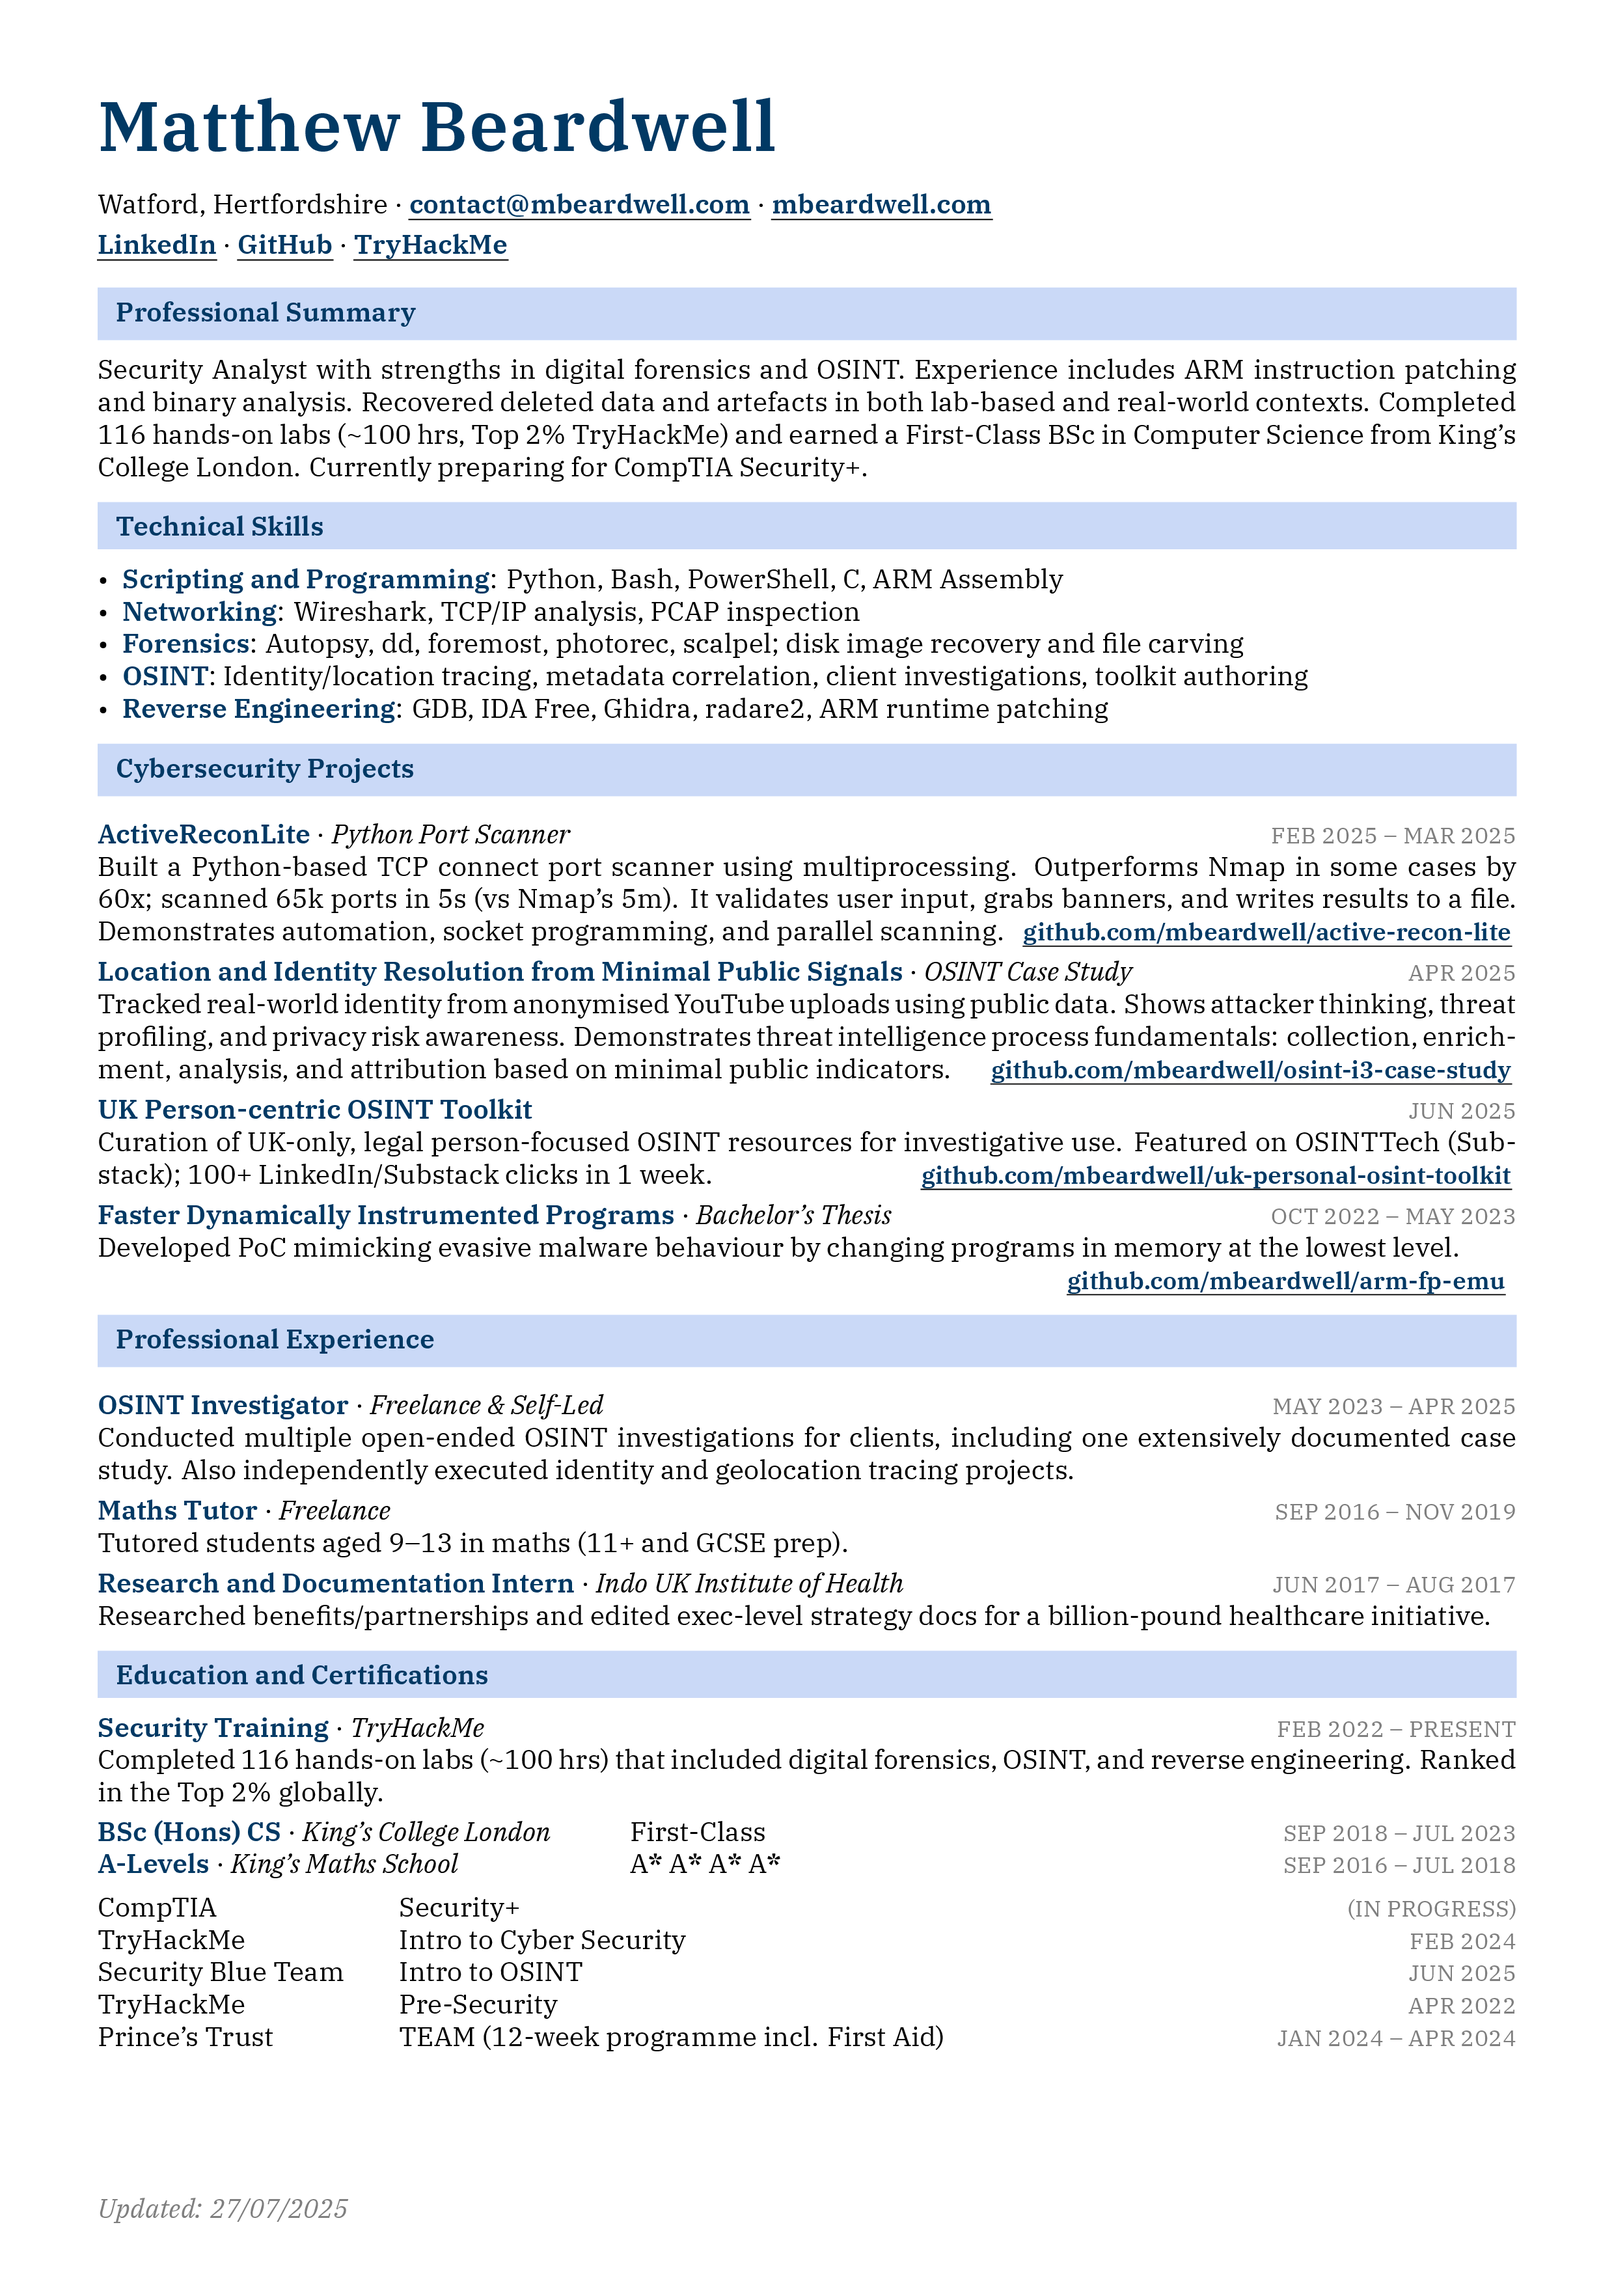
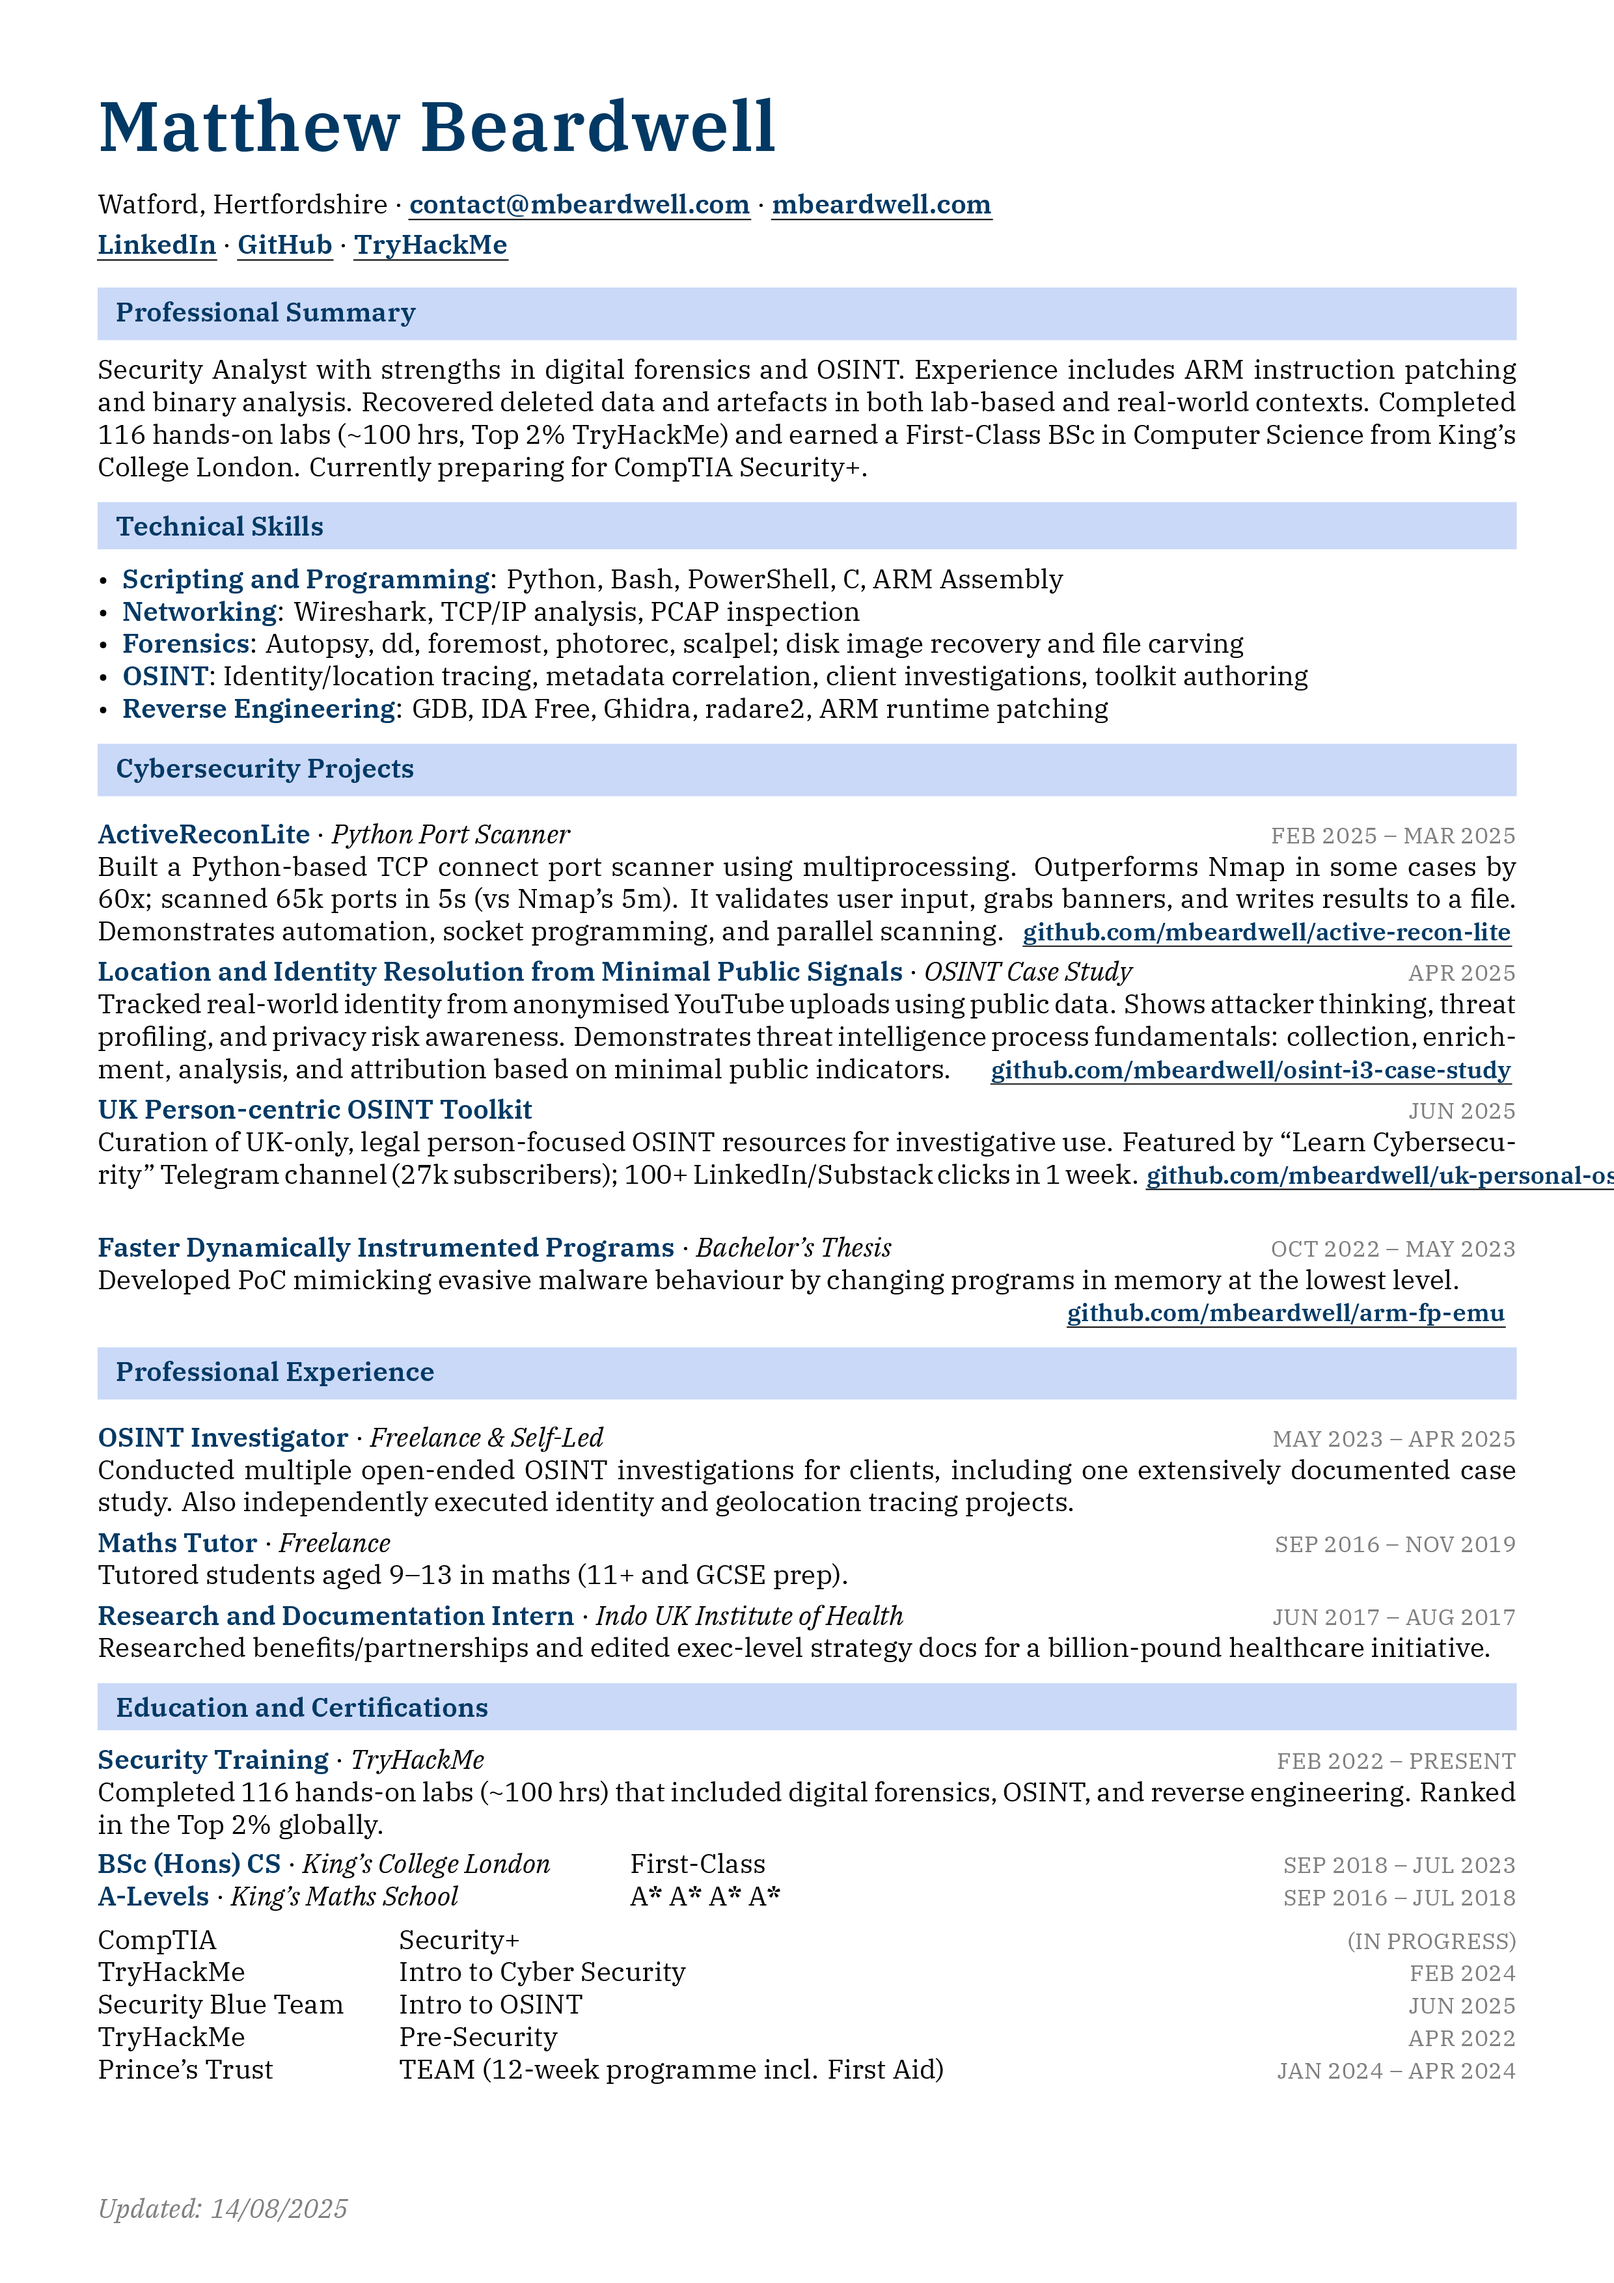
"autosave"

Changed region(s): [[0.0621, 0.4971, 1.0, 0.9011]]

diff --git a/src/cv/cv.tex b/src/cv/cv.tex
@@ -141,8 +141,8 @@
 
   \entry{\textcolorbf{UK Person-centric OSINT Toolkit}}{Jun 2025}{
     Curation of UK-only, legal person-focused OSINT resources for investigative use.
-    Featured by “Learn Cybersecurity” Telegram channel (27k subscribers); 100+ LinkedIn/Substack clicks in 1 week.
-    \hfill\cvlinksmall{https://github.com/mbeardwell/uk-personal-osint-toolkit}{github.com/mbeardwell/uk-personal-osint-toolkit}
+    Featured by “Learn Cybersecurity” Telegram channel (27k subscribers); 100+ LinkedIn/Substack clicks in 1 week.\\
+    \phantom{.}\hfill\cvlinksmall{https://github.com/mbeardwell/uk-personal-osint-toolkit}{github.com/mbeardwell/uk-personal-osint-toolkit}
   }
 
   \entry{\textcolorbf{Faster Dynamically Instrumented Programs} · \textit{Bachelor's Thesis}}{Oct 2022 – May 2023}{
